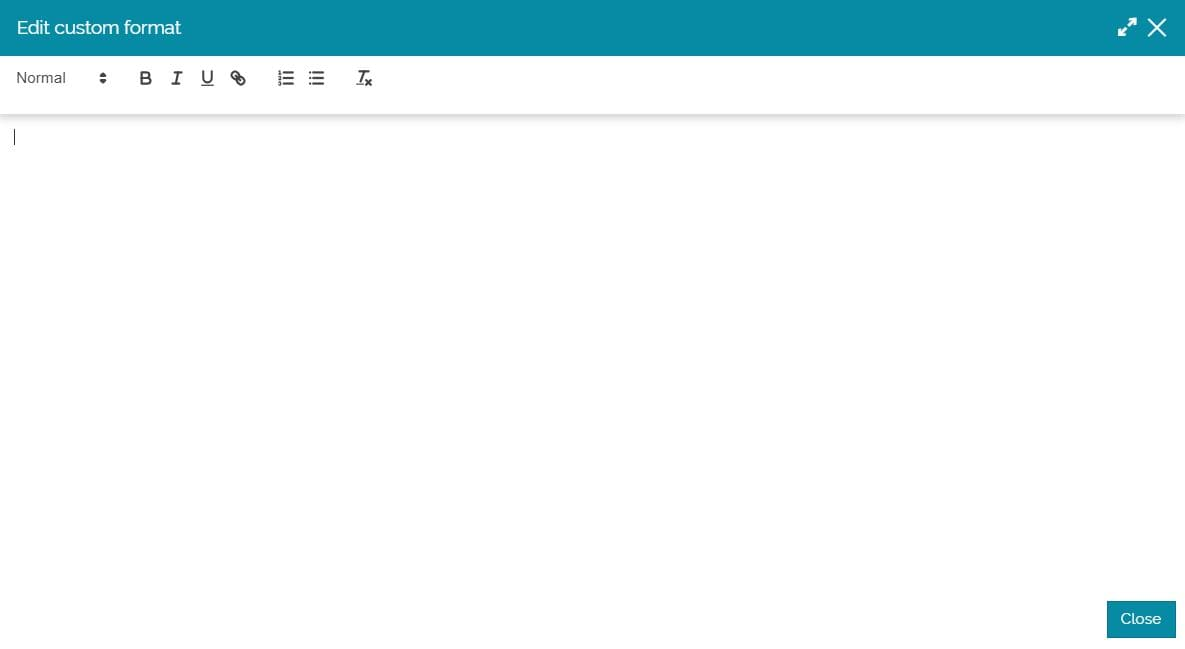
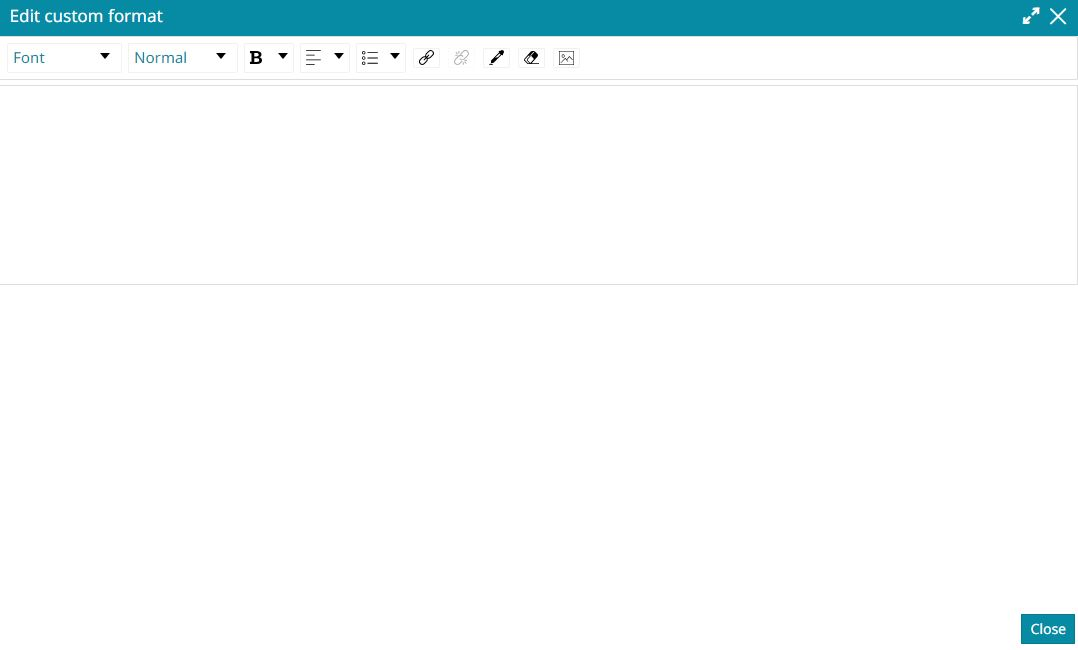
update_9271

Changed region(s): [[0.0, 0.0, 1.0, 0.1849], [0.9184, 0.9245, 1.0, 1.0]]

diff --git a/docs/user-guide/layer-settings.md b/docs/user-guide/layer-settings.md
@@ -454,6 +454,10 @@ In particular, by clicking on the <img src="../img/button/edit_button.jpg" class
 
 <img src="../img/layer-settings/edit_custom_format.jpg" class="ms-docimage"  style="max-width:600px;"/>
 
+!!!note
+    [MapStore](https://mapstore.geosolutionsgroup.com/mapstore/#/) allows the user to view an image present as a URL in the [Attribute Table](attributes-table.md) in [Identify Tool](navigation-toolbar.md#identify-tool). By clicking the <img src="../img/button/image_button.jpg" class="ms-docbutton"/> button, in the [Text Editor Toolbar](text-editor-toolbar.md#text-editor-toolbar), a pop-up opens where the editor can enter the URL of the images, the markdown syntax to use is the following: `${properties.IMAGE}`.
+    <img src="../img/layer-settings/image_on_template.gif" class="ms-docimage"  style="max-width:600px;"/>
+
 Here it is possible to insert the text to be displayed through the [Identify Tool](navigation-toolbar.md#identify-tool), with the possibility to wrap the desired properties. <br>
 Let's make an example: we assume to have a layer where each record corresponds to a USA State geometry in the map. In the [Attribute Table](attributes-table.md#attribute-table) of this layer there's the `STATE_NAME` field that, for each record, contains a text value with the name of the State. <br>
 If the goal is to show, performing the [Identify Tool](navigation-toolbar.md#identify-tool), only the State name, an option could be to insert the following text on the Template text editor:

diff --git a/docs/user-guide/resources-properties.md b/docs/user-guide/resources-properties.md
@@ -53,7 +53,8 @@ With a click on the **Add new details** button <img src="../img/button/add_detai
 
 <img src="../img/resource-properties/details_panel.jpg" class="ms-docimage"/>
 
-The text can be edited and some links and images can be added through the [Text Editor Toolbar](text-editor-toolbar.md#text-editor-toolbar). Once the editing is done, the map details can be saved with the **Save** button <img src="../img/button/save_large_button.jpg" class="ms-docbutton"/> and other buttons appear on the *Edit properties* panel.
+The text can be edited and some links and images can be added through the [Text Editor Toolbar](text-editor-toolbar.md#text-editor-toolbar).
+Once the editing is done, the map details can be saved with the **Save** button <img src="../img/button/save_large_button.jpg" class="ms-docbutton"/> and other buttons appear on the *Edit properties* panel.
 
 <img src="../img/resource-properties/details_sheet_buttons.jpg" class="ms-docimage"/>
 
